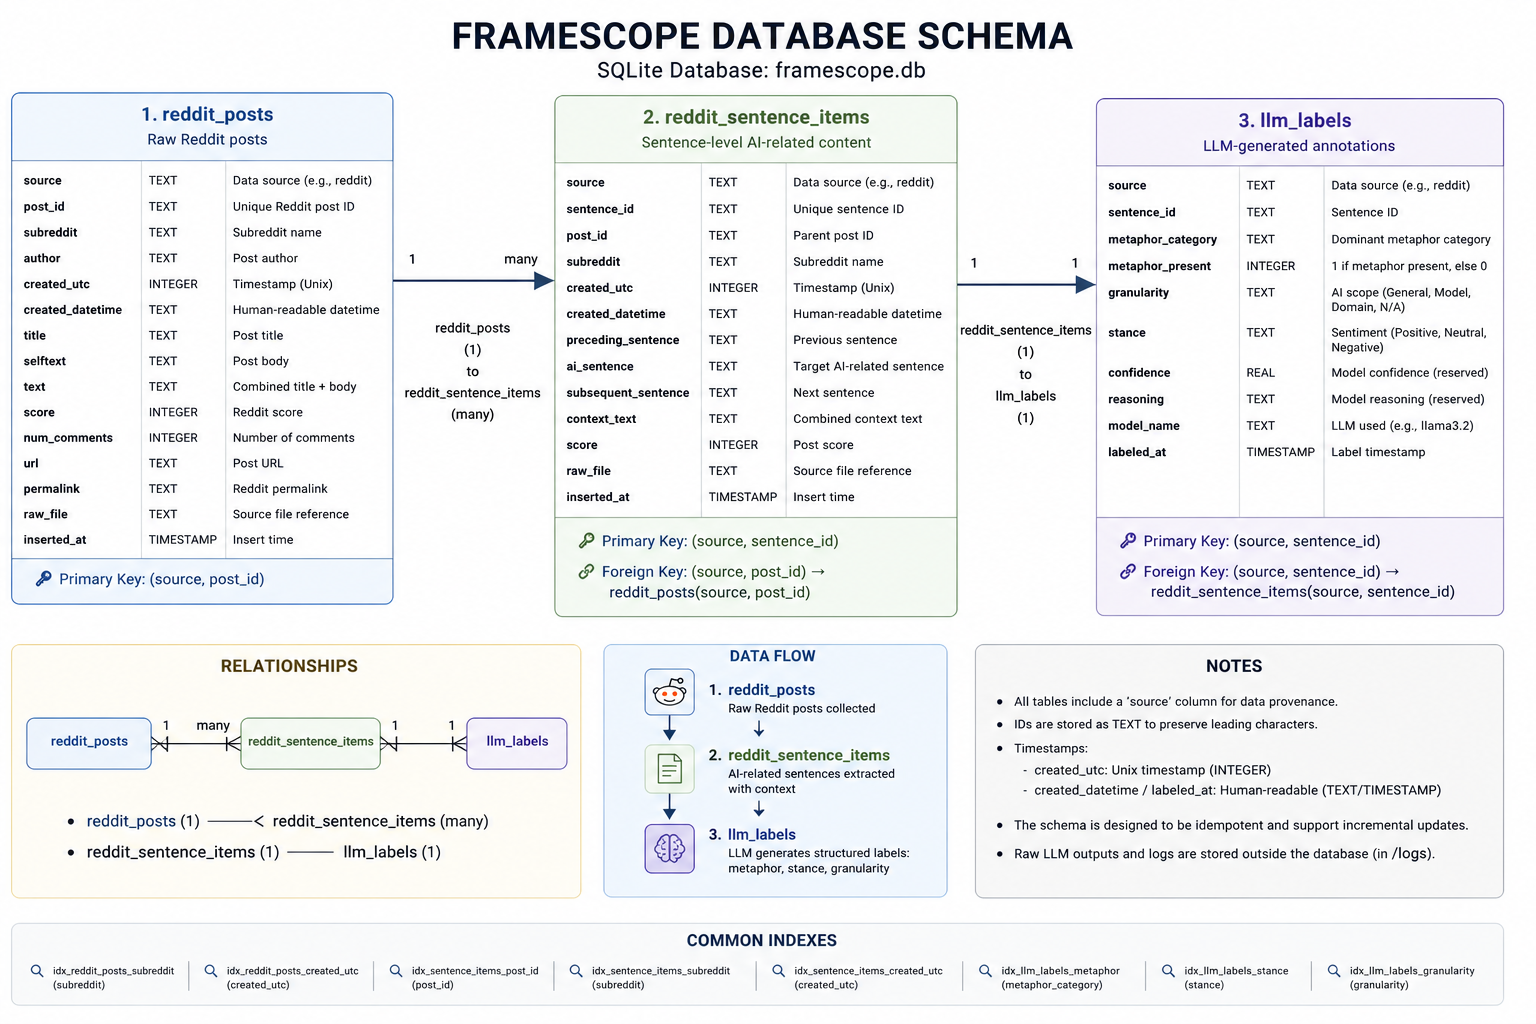
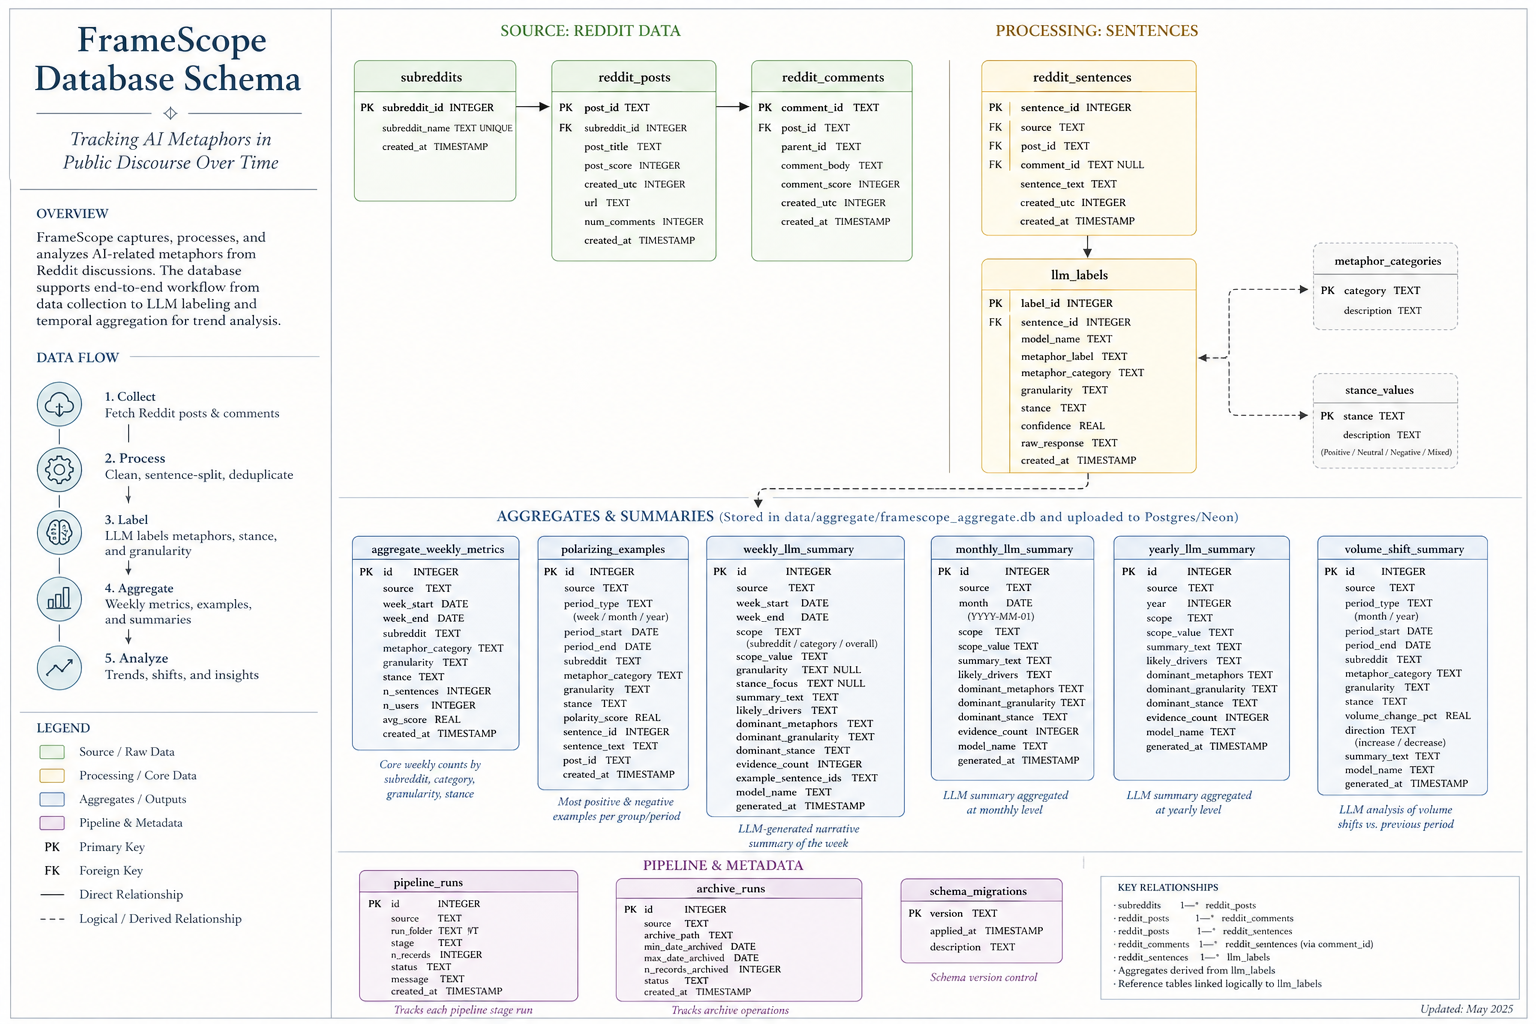
Update database schema documentation and image for clarity and completeness

diff --git a/Docs/database_schema.md b/Docs/database_schema.md
@@ -1,78 +1,79 @@
-## Database Schema — FrameScope
-
-![Database Schema](../Docs_Images/database_schema.png)
-
+============================================================
 Overview
---------
+============================================================
+![Database Schema](../Docs_Images/database_schema.png)
+FrameScope is a data-centric NLP pipeline for tracking AI discourse on Reddit using sentence-level annotation and temporal aggregation.
 
-The pipeline consists of three core tables:
+Core pipeline:
 
-reddit_posts            → Raw Reddit posts
-reddit_sentence_items   → Sentence-level extracted AI-related text
-llm_labels              → LLM-generated annotations (metaphor, stance, granularity)
-
-Pipeline Flow:
-
-```text
 reddit_posts
-    |
-    v
+    ↓
 reddit_sentence_items
-    |
-    v
+    ↓
 llm_labels
-```
+    ↓
+aggregate_weekly_metrics / summaries
 
 
-------------------------------------------------------------
+============================================================
 1. reddit_posts
-------------------------------------------------------------
+============================================================
 
-Stores raw Reddit posts.
+Stores raw Reddit posts and comments.
 
 Columns:
-
-- source (TEXT): Data source ("reddit")
-- post_id (TEXT): Unique Reddit post ID
-- subreddit (TEXT): Subreddit name
-- author (TEXT): Post author
-- created_utc (INTEGER): Timestamp (Unix)
-- created_datetime (TEXT): Human-readable datetime
-- title (TEXT): Post title
-- selftext (TEXT): Post body
-- text (TEXT): Combined title + body
-- score (INTEGER): Reddit score
-- num_comments (INTEGER): Number of comments
-- url (TEXT): Post URL
-- permalink (TEXT): Reddit permalink
-- raw_file (TEXT): Source file reference
-- inserted_at (TIMESTAMP): Insert time
+- source (TEXT)
+- post_id (TEXT)
+- item_type (TEXT): post/comment
+- subreddit (TEXT)
+- author (TEXT)
+- created_utc (INTEGER)
+- created_datetime (TEXT)
+- title (TEXT)
+- selftext (TEXT)
+- text (TEXT)
+- score (INTEGER)
+- num_comments (INTEGER)
+- url (TEXT)
+- link_id (TEXT)
+- parent_id (TEXT)
+- raw_file (TEXT)
+- run_folder (TEXT)
+- inserted_at (TIMESTAMP)
 
 Primary Key:
 (source, post_id)
 
 
-------------------------------------------------------------
+============================================================
 2. reddit_sentence_items
-------------------------------------------------------------
+============================================================
 
-Stores sentence-level units extracted from posts that contain AI-related content.
+Stores AI-related sentence-level units.
 
 Columns:
-
-- source (TEXT): Data source ("reddit")
-- sentence_id (TEXT): Unique sentence ID
-- post_id (TEXT): Parent post ID
-- subreddit (TEXT): Subreddit name
-- created_utc (INTEGER): Timestamp
-- created_datetime (TEXT): Datetime
-- preceding_sentence (TEXT): Previous sentence
-- ai_sentence (TEXT): Target sentence (AI-related)
-- subsequent_sentence (TEXT): Next sentence
-- context_text (TEXT): Combined context text
-- score (INTEGER): Post score
-- raw_file (TEXT): Source file reference
-- inserted_at (TIMESTAMP): Insert time
+- source (TEXT)
+- sentence_id (TEXT)
+- post_id (TEXT)
+- item_type (TEXT)
+- subreddit (TEXT)
+- author (TEXT)
+- created_utc (INTEGER)
+- created_datetime (TEXT)
+- sentence_index (INTEGER)
+- preceding_sentence (TEXT)
+- ai_sentence (TEXT)
+- subsequent_sentence (TEXT)
+- context_text (TEXT)
+- full_text (TEXT)
+- score (INTEGER)
+- num_comments (INTEGER)
+- url (TEXT)
+- link_id (TEXT)
+- parent_id (TEXT)
+- raw_file (TEXT)
+- run_folder (TEXT)
+- inserted_at (TIMESTAMP)
 
 Primary Key:
 (source, sentence_id)
@@ -81,24 +82,23 @@ Foreign Key:
 (source, post_id) → reddit_posts(source, post_id)
 
 
-------------------------------------------------------------
+============================================================
 3. llm_labels
-------------------------------------------------------------
+============================================================
 
-Stores LLM-generated annotations for each sentence.
+Stores LLM-generated annotations.
 
 Columns:
-
-- source (TEXT): Data source ("reddit")
-- sentence_id (TEXT): Sentence ID
-- metaphor_category (TEXT): Dominant metaphor
-- metaphor_present (INTEGER): 1 if metaphor exists, else 0
-- granularity (TEXT): AI scope (General-AI, Model-Specific, Domain-Specific, Not Applicable)
-- stance (TEXT): Sentiment (Positive, Neutral/Unclear, Negative)
-- confidence (REAL): Reserved
-- reasoning (TEXT): Reserved
-- model_name (TEXT): LLM used (e.g., llama3.2)
-- labeled_at (TIMESTAMP): Label timestamp
+- source (TEXT)
+- sentence_id (TEXT)
+- metaphor_category (TEXT)
+- metaphor_present (INTEGER)
+- granularity (TEXT)
+- stance (TEXT)
+- confidence (REAL)
+- reasoning (TEXT)
+- model_name (TEXT)
+- labeled_at (TIMESTAMP)
 
 Primary Key:
 (source, sentence_id)
@@ -107,30 +107,114 @@ Foreign Key:
 (source, sentence_id) → reddit_sentence_items(source, sentence_id)
 
 
-------------------------------------------------------------
+============================================================
+4. aggregate_weekly_metrics
+============================================================
+
+Weekly aggregated statistics.
+
+Columns:
+- id (INTEGER)
+- source (TEXT)
+- week_start (TEXT)
+- week_end (TEXT)
+- subreddit (TEXT)
+- item_type (TEXT)
+- metaphor_category (TEXT)
+- granularity (TEXT)
+- stance (TEXT)
+- n_sentences (INTEGER)
+- n_items (INTEGER)
+- avg_score (REAL)
+- created_at (TIMESTAMP)
+
+
+============================================================
+5. polarizing_examples
+============================================================
+
+High-salience examples for interpretation.
+
+Columns:
+- id (INTEGER)
+- source (TEXT)
+- period_type (TEXT)
+- period_start (TEXT)
+- period_end (TEXT)
+- scope (TEXT)
+- scope_value (TEXT)
+- subreddit (TEXT)
+- item_type (TEXT)
+- metaphor_category (TEXT)
+- granularity (TEXT)
+- stance (TEXT)
+- sentence_id (TEXT)
+- post_id (TEXT)
+- context_text (TEXT)
+- ai_sentence (TEXT)
+- score (INTEGER)
+- rank (INTEGER)
+
+
+============================================================
+6. weekly_llm_summary
+============================================================
+
+LLM-generated summaries.
+
+Columns:
+- id (INTEGER)
+- source (TEXT)
+- week_start (TEXT)
+- week_end (TEXT)
+- scope (TEXT)
+- scope_value (TEXT)
+- granularity (TEXT)
+- stance_focus (TEXT)
+- summary_text (TEXT)
+- likely_drivers (TEXT)
+- dominant_metaphors (TEXT)
+- dominant_granularity (TEXT)
+- dominant_stance (TEXT)
+- evidence_count (INTEGER)
+- example_sentence_ids (TEXT)
+- model_name (TEXT)
+- generated_at (TIMESTAMP)
+
+
+============================================================
+7. pipeline_runs
+============================================================
+
+Tracks pipeline execution.
+
+Columns:
+- id (INTEGER)
+- source (TEXT)
+- run_folder (TEXT)
+- stage (TEXT)
+- n_records (INTEGER)
+- status (TEXT)
+- message (TEXT)
+- created_at (TIMESTAMP)
+
+
+============================================================
 Relationships
-------------------------------------------------------------
+============================================================
 
 reddit_posts (1) → (many) reddit_sentence_items  
 reddit_sentence_items (1) → (1) llm_labels  
 
-
-------------------------------------------------------------
-Data Flow
-------------------------------------------------------------
-
-1. reddit_posts
-2. sentence preprocessing
-3. reddit_sentence_items
-4. LLM labeling (05_label_llm.py)
-5. llm_labels
+llm_labels → aggregate_weekly_metrics  
+aggregate_weekly_metrics → weekly_llm_summary  
+aggregate_weekly_metrics → polarizing_examples  
 
 
-------------------------------------------------------------
-Example Join
-------------------------------------------------------------
+============================================================
+Example Query
+============================================================
 
-```{sql}
 SELECT
     r.subreddit,
     r.created_utc,
@@ -140,16 +224,16 @@ SELECT
     l.stance
 FROM reddit_sentence_items r
 JOIN llm_labels l
-    ON r.sentence_id = l.sentence_id
-WHERE l.source = 'reddit';
-```
+    ON r.source = l.source
+   AND r.sentence_id = l.sentence_id
+WHERE r.source = 'reddit';
 
-------------------------------------------------------------
+
+============================================================
 Notes
-------------------------------------------------------------
+============================================================
 
-- All annotations are sentence-level
-- The pipeline is idempotent (safe to rerun)
-- Only structured outputs are stored in the database
-- Raw LLM outputs are logged separately
-
+- Sentence is the atomic unit of analysis
+- Pipeline is idempotent
+- LLM labeling is incremental
+- Supports longitudinal discourse analysis
